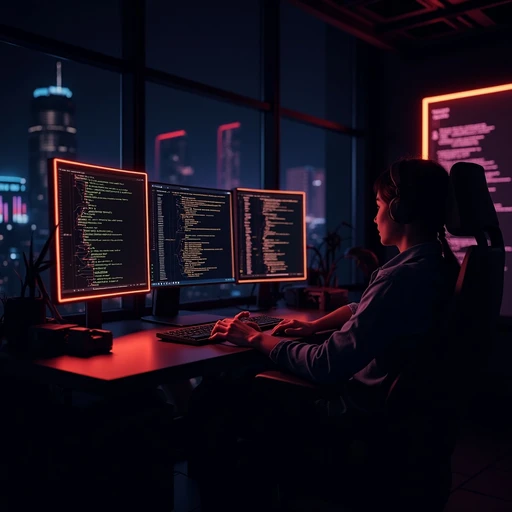
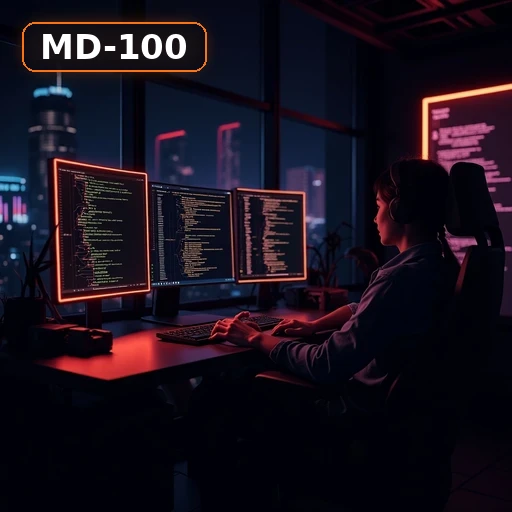
feat(covers): composite cert name-chips onto the 9 cert hub covers
Cert hubs get their cert SHORT NAME as our own text in a house-colored chip (top-left,
soft glow), composited onto the scene. This is descriptive naming, NOT a vendor logo;
swaps for an official partner asset later with no code change.
- composite_cert_mark.py: single-cover chip compositor (short-name text + house color)
- cert_marks.py: idempotent batch over the 9 cert hubs (composites from the original
  scene in staging each run, never double-stamps); updates manifest 'mark'.
Catalog re-verified: 22 cards / 22 covers, 9 now marked. WIP, not deployed.

Changed region(s): [[0.0312, 0.0312, 0.4062, 0.1562]]

diff --git a/_tools/covers/composite_cert_mark.py b/_tools/covers/composite_cert_mark.py
@@ -1,0 +1,56 @@
+#!/usr/bin/env python3
+"""
+Composite a cert MARK onto a cover scene (cover-cartridge system, cert hubs).
+
+IMPORTANT: this renders the cert's SHORT NAME as plain text in our OWN typography (e.g. "A+",
+"Security+"), a descriptive/nominative label of what the course preps for. It does NOT reproduce,
+recreate, or approximate any vendor's stylized logo or trademarked mark. When official partner
+logo rights are confirmed, the text chip is swapped for the real asset, no code change.
+
+Usage:
+  python3 _tools/covers/composite-cert-mark.py <cover.webp> <out.webp> "A+ Core 1" "#f97316"
+"""
+import sys
+from PIL import Image, ImageDraw, ImageFont, ImageFilter
+
+def hex_rgb(h):
+    h = h.lstrip('#')
+    return (int(h[0:2], 16), int(h[2:4], 16), int(h[4:6], 16))
+
+def font(sz):
+    try:
+        return ImageFont.truetype("/usr/share/fonts/truetype/dejavu/DejaVuSans-Bold.ttf", sz)
+    except Exception:
+        return ImageFont.load_default()
+
+def composite(cover_path, out_path, cert_name, house_hex):
+    im = Image.open(cover_path).convert("RGBA")
+    W, H = im.size
+    accent = hex_rgb(house_hex)
+    f = font(34)
+    d0 = ImageDraw.Draw(im)
+    bbox = d0.textbbox((0, 0), cert_name, font=f)
+    tw, th = bbox[2] - bbox[0], bbox[3] - bbox[1]
+    px, py = 18, 12
+    cw, chh = tw + px * 2, th + py * 2
+    x, y = 22, 22
+
+    # Chip + text on a transparent overlay so we can add a soft accent glow behind it.
+    overlay = Image.new("RGBA", im.size, (0, 0, 0, 0))
+    od = ImageDraw.Draw(overlay)
+    od.rounded_rectangle([x, y, x + cw, y + chh], radius=13, fill=(8, 10, 20, 225),
+                         outline=accent + (255,), width=2)
+    od.text((x + px, y + py - bbox[1]), cert_name, font=f, fill=(255, 255, 255, 255))
+
+    glow = Image.new("RGBA", im.size, (0, 0, 0, 0))
+    gd = ImageDraw.Draw(glow)
+    gd.rounded_rectangle([x, y, x + cw, y + chh], radius=13, fill=accent + (150,))
+    glow = glow.filter(ImageFilter.GaussianBlur(11))
+
+    im = Image.alpha_composite(im, glow)
+    im = Image.alpha_composite(im, overlay)
+    im.convert("RGB").save(out_path, "WEBP", quality=90)
+    print("  wrote", out_path)
+
+if __name__ == "__main__":
+    composite(sys.argv[1], sys.argv[2], sys.argv[3], sys.argv[4])

diff --git a/_tools/covers/cert_marks.py b/_tools/covers/cert_marks.py
@@ -1,0 +1,49 @@
+#!/usr/bin/env python3
+"""
+Composite the cert MARK onto all cert-hub covers (cover-cartridge system).
+
+Idempotent: always composites from the ORIGINAL scene in staging/ (per the manifest 'source'),
+so re-running never double-stamps. The mark is the cert's SHORT NAME as our own text in a
+house-colored chip, NOT a vendor logo (see composite_cert_mark.py).
+
+Usage:  python3 _tools/covers/cert_marks.py
+"""
+import os, sys, json
+sys.path.insert(0, os.path.dirname(os.path.abspath(__file__)))
+from composite_cert_mark import composite
+
+HERE = os.path.dirname(os.path.abspath(__file__))
+STAGING = os.path.join(HERE, "staging")
+GAL = os.path.join(HERE, "..", "..", "_app", "assets", "images", "covers")
+
+# cert hub id -> (short-name text, house-color hex)
+CERT = {
+    "network-plus":  ("Network+",  "#3b82f6"),
+    "cyberops":      ("CyberOps",  "#6366f1"),
+    "aplus-core1":   ("A+ Core 1", "#f97316"),
+    "aplus-core2":   ("A+ Core 2", "#f97316"),
+    "md-100":        ("MD-100",    "#f97316"),
+    "md-101":        ("MD-101",    "#f97316"),
+    "security-plus": ("Security+", "#ef4444"),
+    "isc2-cc":       ("ISC2 CC",   "#ef4444"),
+    "server-plus":   ("Server+",   "#06b6d4"),
+}
+
+def main():
+    mpath = os.path.join(GAL, "manifest.json")
+    manifest = json.load(open(mpath))
+    for hid, (name, color) in CERT.items():
+        entry = manifest.get(hid)
+        if not entry:
+            print("  SKIP (not in manifest):", hid); continue
+        src = os.path.join(STAGING, entry["source"] + ".webp")   # original pure scene
+        if not os.path.exists(src):
+            print("  SKIP (no source scene):", src); continue
+        out = os.path.join(GAL, hid + ".webp")
+        composite(src, out, name, color)
+        entry["mark"] = name
+    json.dump(manifest, open(mpath, "w"), indent=2)
+    print("done:", len(CERT), "cert marks composited")
+
+if __name__ == "__main__":
+    main()
